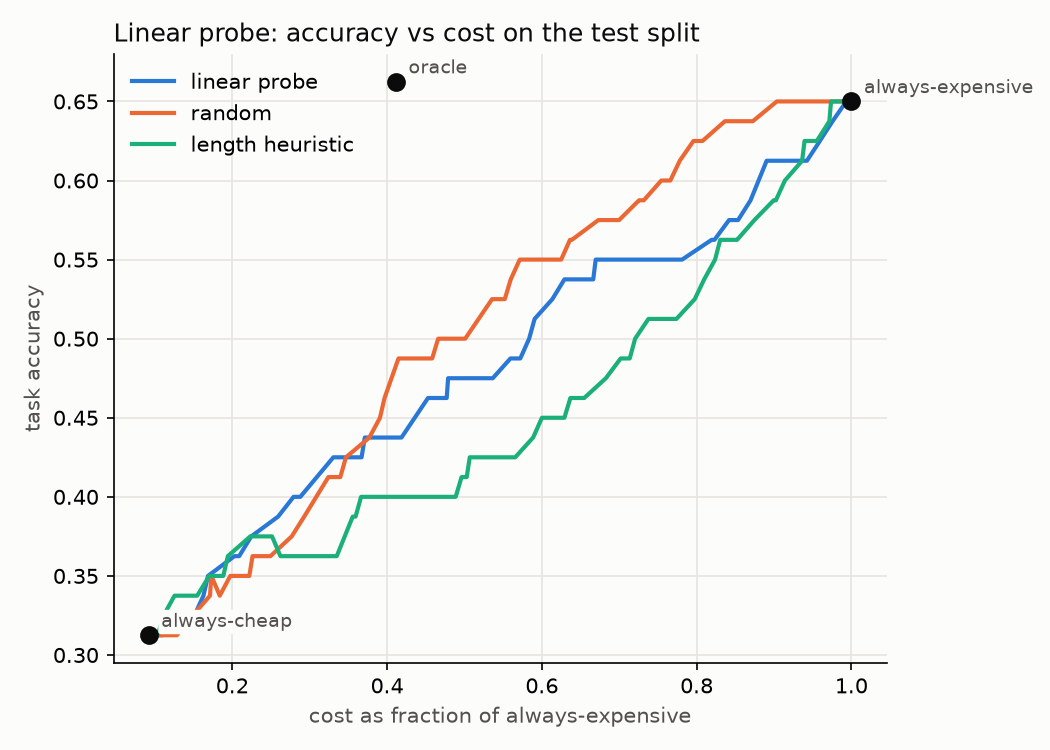
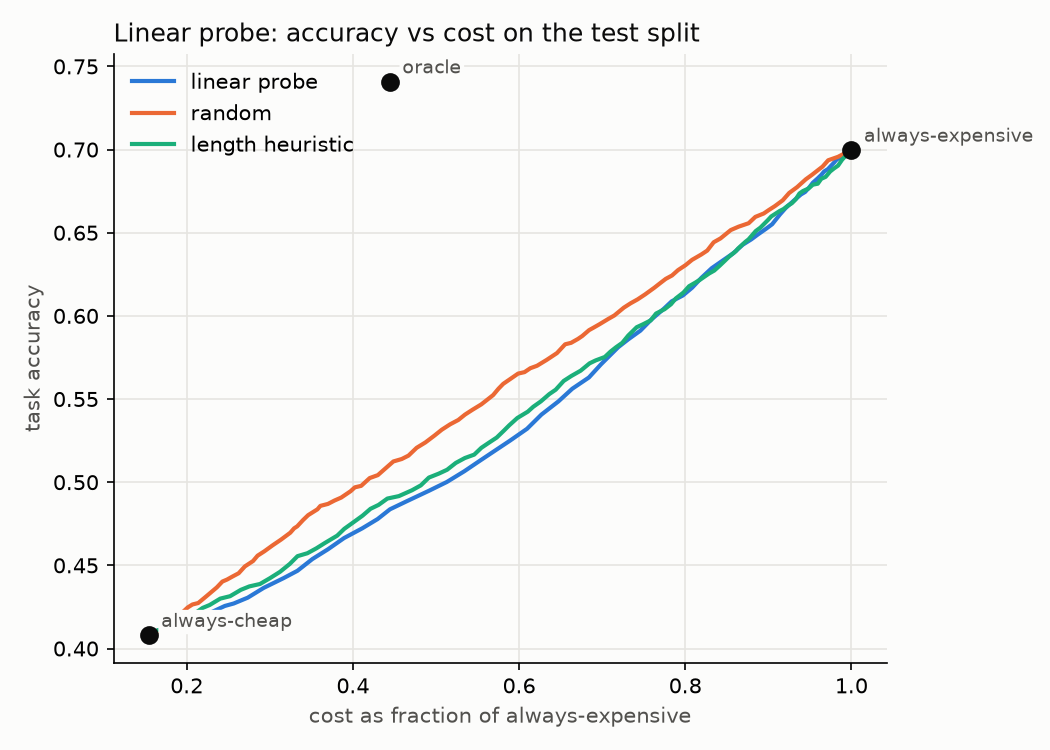
Linear probe results on full datasets

diff --git a/linear_probe.py b/linear_probe.py
@@ -1,8 +1,7 @@
 # Linear probe router: logistic regression on frozen all-MiniLM-L6-v2 embeddings with one
 # independent sigmoid output per candidate model.
 # Reads results/labels.csv, the train/val/test split in results/splits.csv and the embedding cache
-# results/embeddings.npz (both made by mlp_probe.py, so the two probes see the same questions).
-# Writes results/linear/curve.csv and results/linear/accuracy_vs_cost.png.
+# results/embeddings.npz and writes results/linear/curve.csv and results/linear/accuracy_vs_cost.png.
 import matplotlib.pyplot as plt
 import numpy as np
 import pandas as pd
